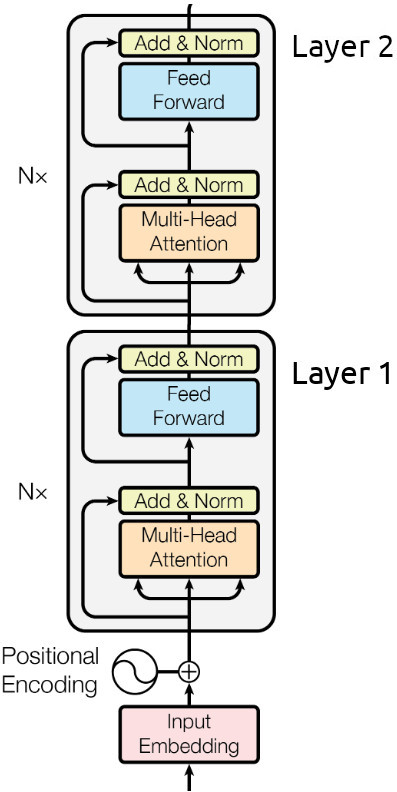
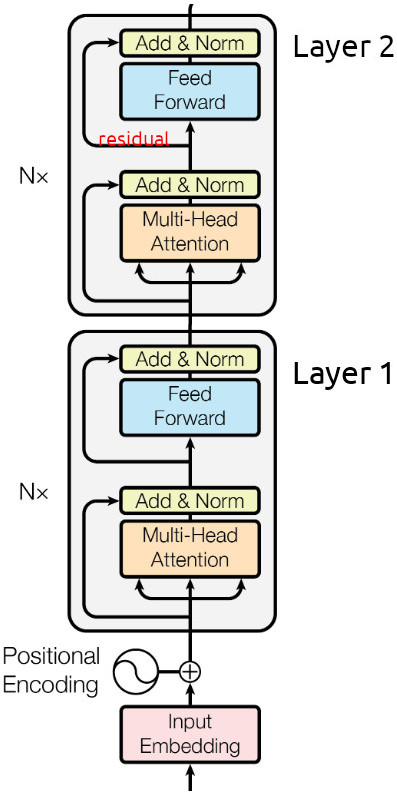
transformer feed forward

diff --git a/_posts/2021-01-02-Feed-Forward-Self-Attendion-Key-Value-Memory.md b/_posts/2021-01-02-Feed-Forward-Self-Attendion-Key-Value-Memory.md
@@ -53,6 +53,8 @@ It is a position-wise transformation that consists of linear transformation, ReL
 
 \\( \mathrm{ffLayer} = \sum_i \mathrm{relu}(q_i k_i^\intercal + b_i) v_i + c\\)
 
+Don't forget the residual connections and their addition and normalization to outputs of both FF and self-attention.
+
 
 ## Key-Value Memory vs Feed-Forward Layer
 
